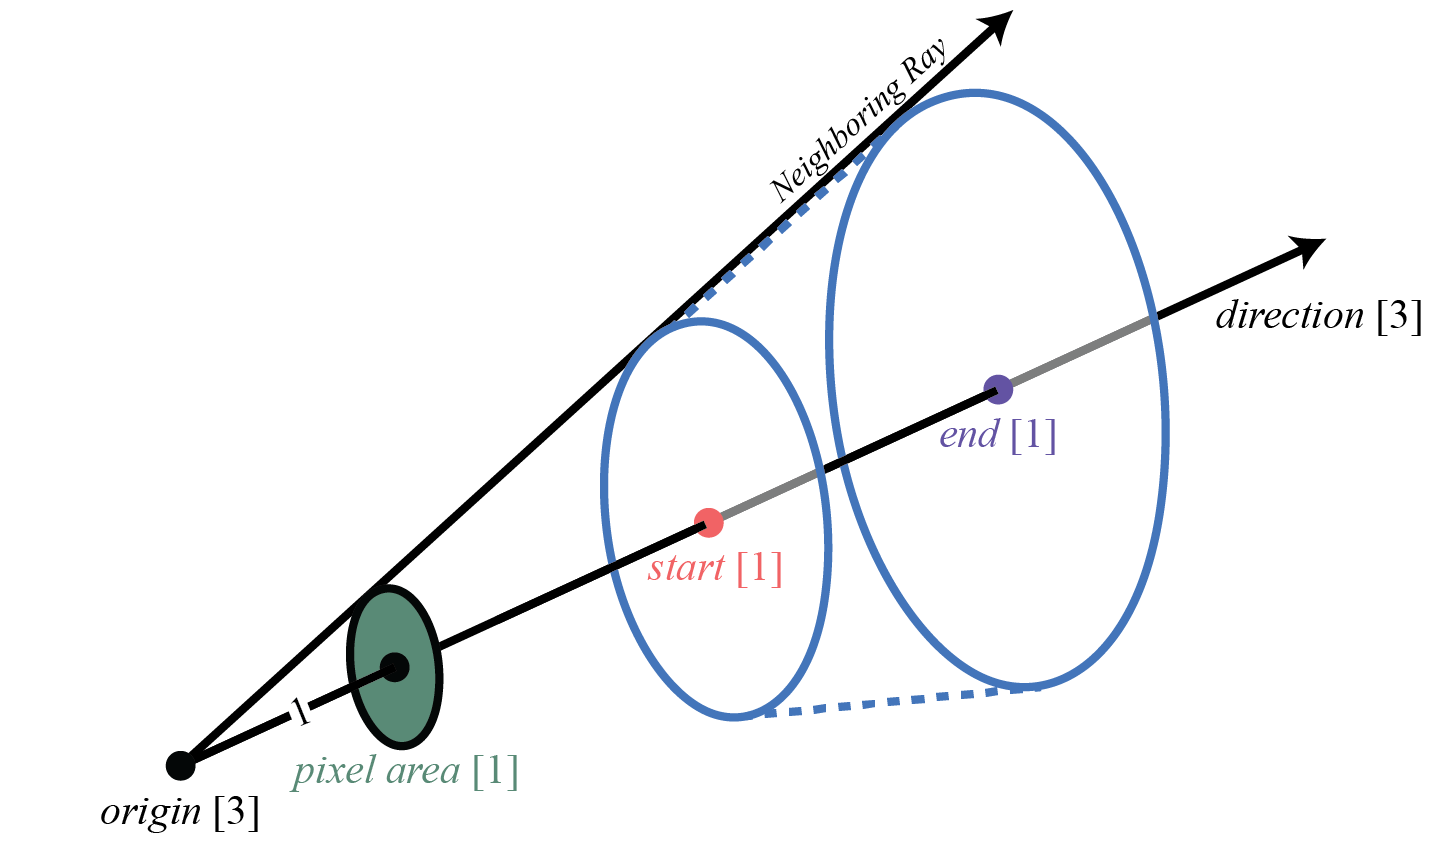
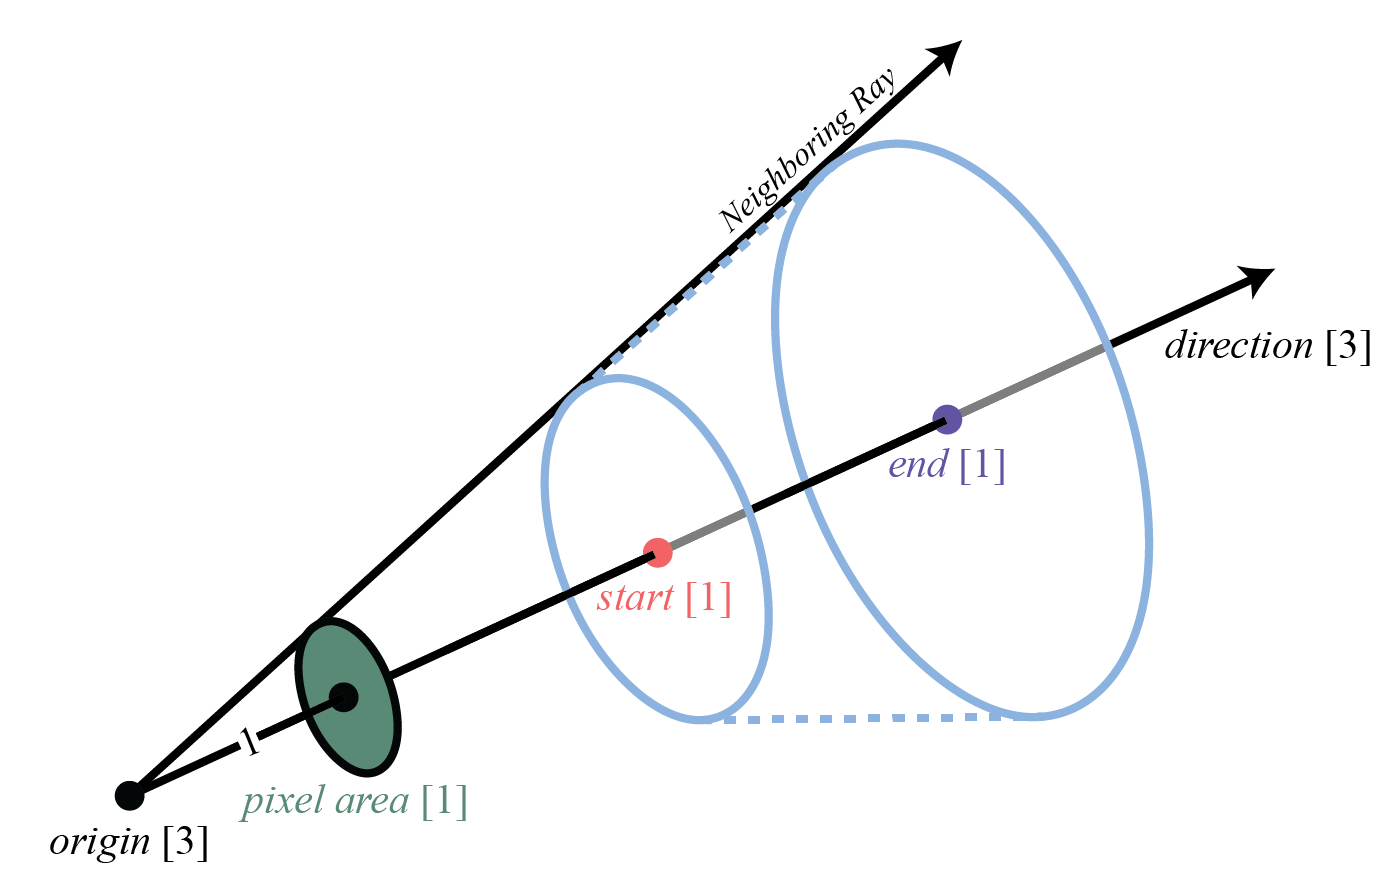
Update images in docs (#230)

Changed region(s): [[0.0309, 0.0, 1.0, 0.98], [0.7115, 0.1225, 0.7424, 0.1531]]

diff --git a/README.md b/README.md
@@ -1,5 +1,9 @@
 <p align="center">
-  <img src="docs/imgs/logo.png" width="400" />
+    <picture>
+    <source media="(prefers-color-scheme: dark)" srcset="docs/_static/imgs/logo-dark.png">
+    <source media="(prefers-color-scheme: light)" srcset="docs/_static/imgs/logo.png">
+    <img alt="nerfactory" src="docs/_static/imgs/logo.png" width="400">
+    </picture>
 </p>
 
 <p align="center"> The all-in-one repo for NeRFs </p>

diff --git a/docs/index.rst b/docs/index.rst
@@ -5,6 +5,13 @@
   :width: 400
   :align: center
   :alt: nerfactory
+  :class: only-light
+
+.. image:: _static/imgs/logo-dark.png
+  :width: 400
+  :align: center
+  :alt: nerfactory
+  :class: only-dark
 
 Neural Volumetric Rendering
 """""""""""""""""""""""""""""

diff --git a/docs/tutorials/quickstart_index.rst b/docs/tutorials/quickstart_index.rst
@@ -5,6 +5,13 @@
   :width: 400
   :align: center
   :alt: nerfactory
+  :class: only-light
+
+.. image:: ../_static/imgs/logo-dark.png
+  :width: 400
+  :align: center
+  :alt: nerfactory
+  :class: only-dark
 
 
 Neural Volumetric Rendering
